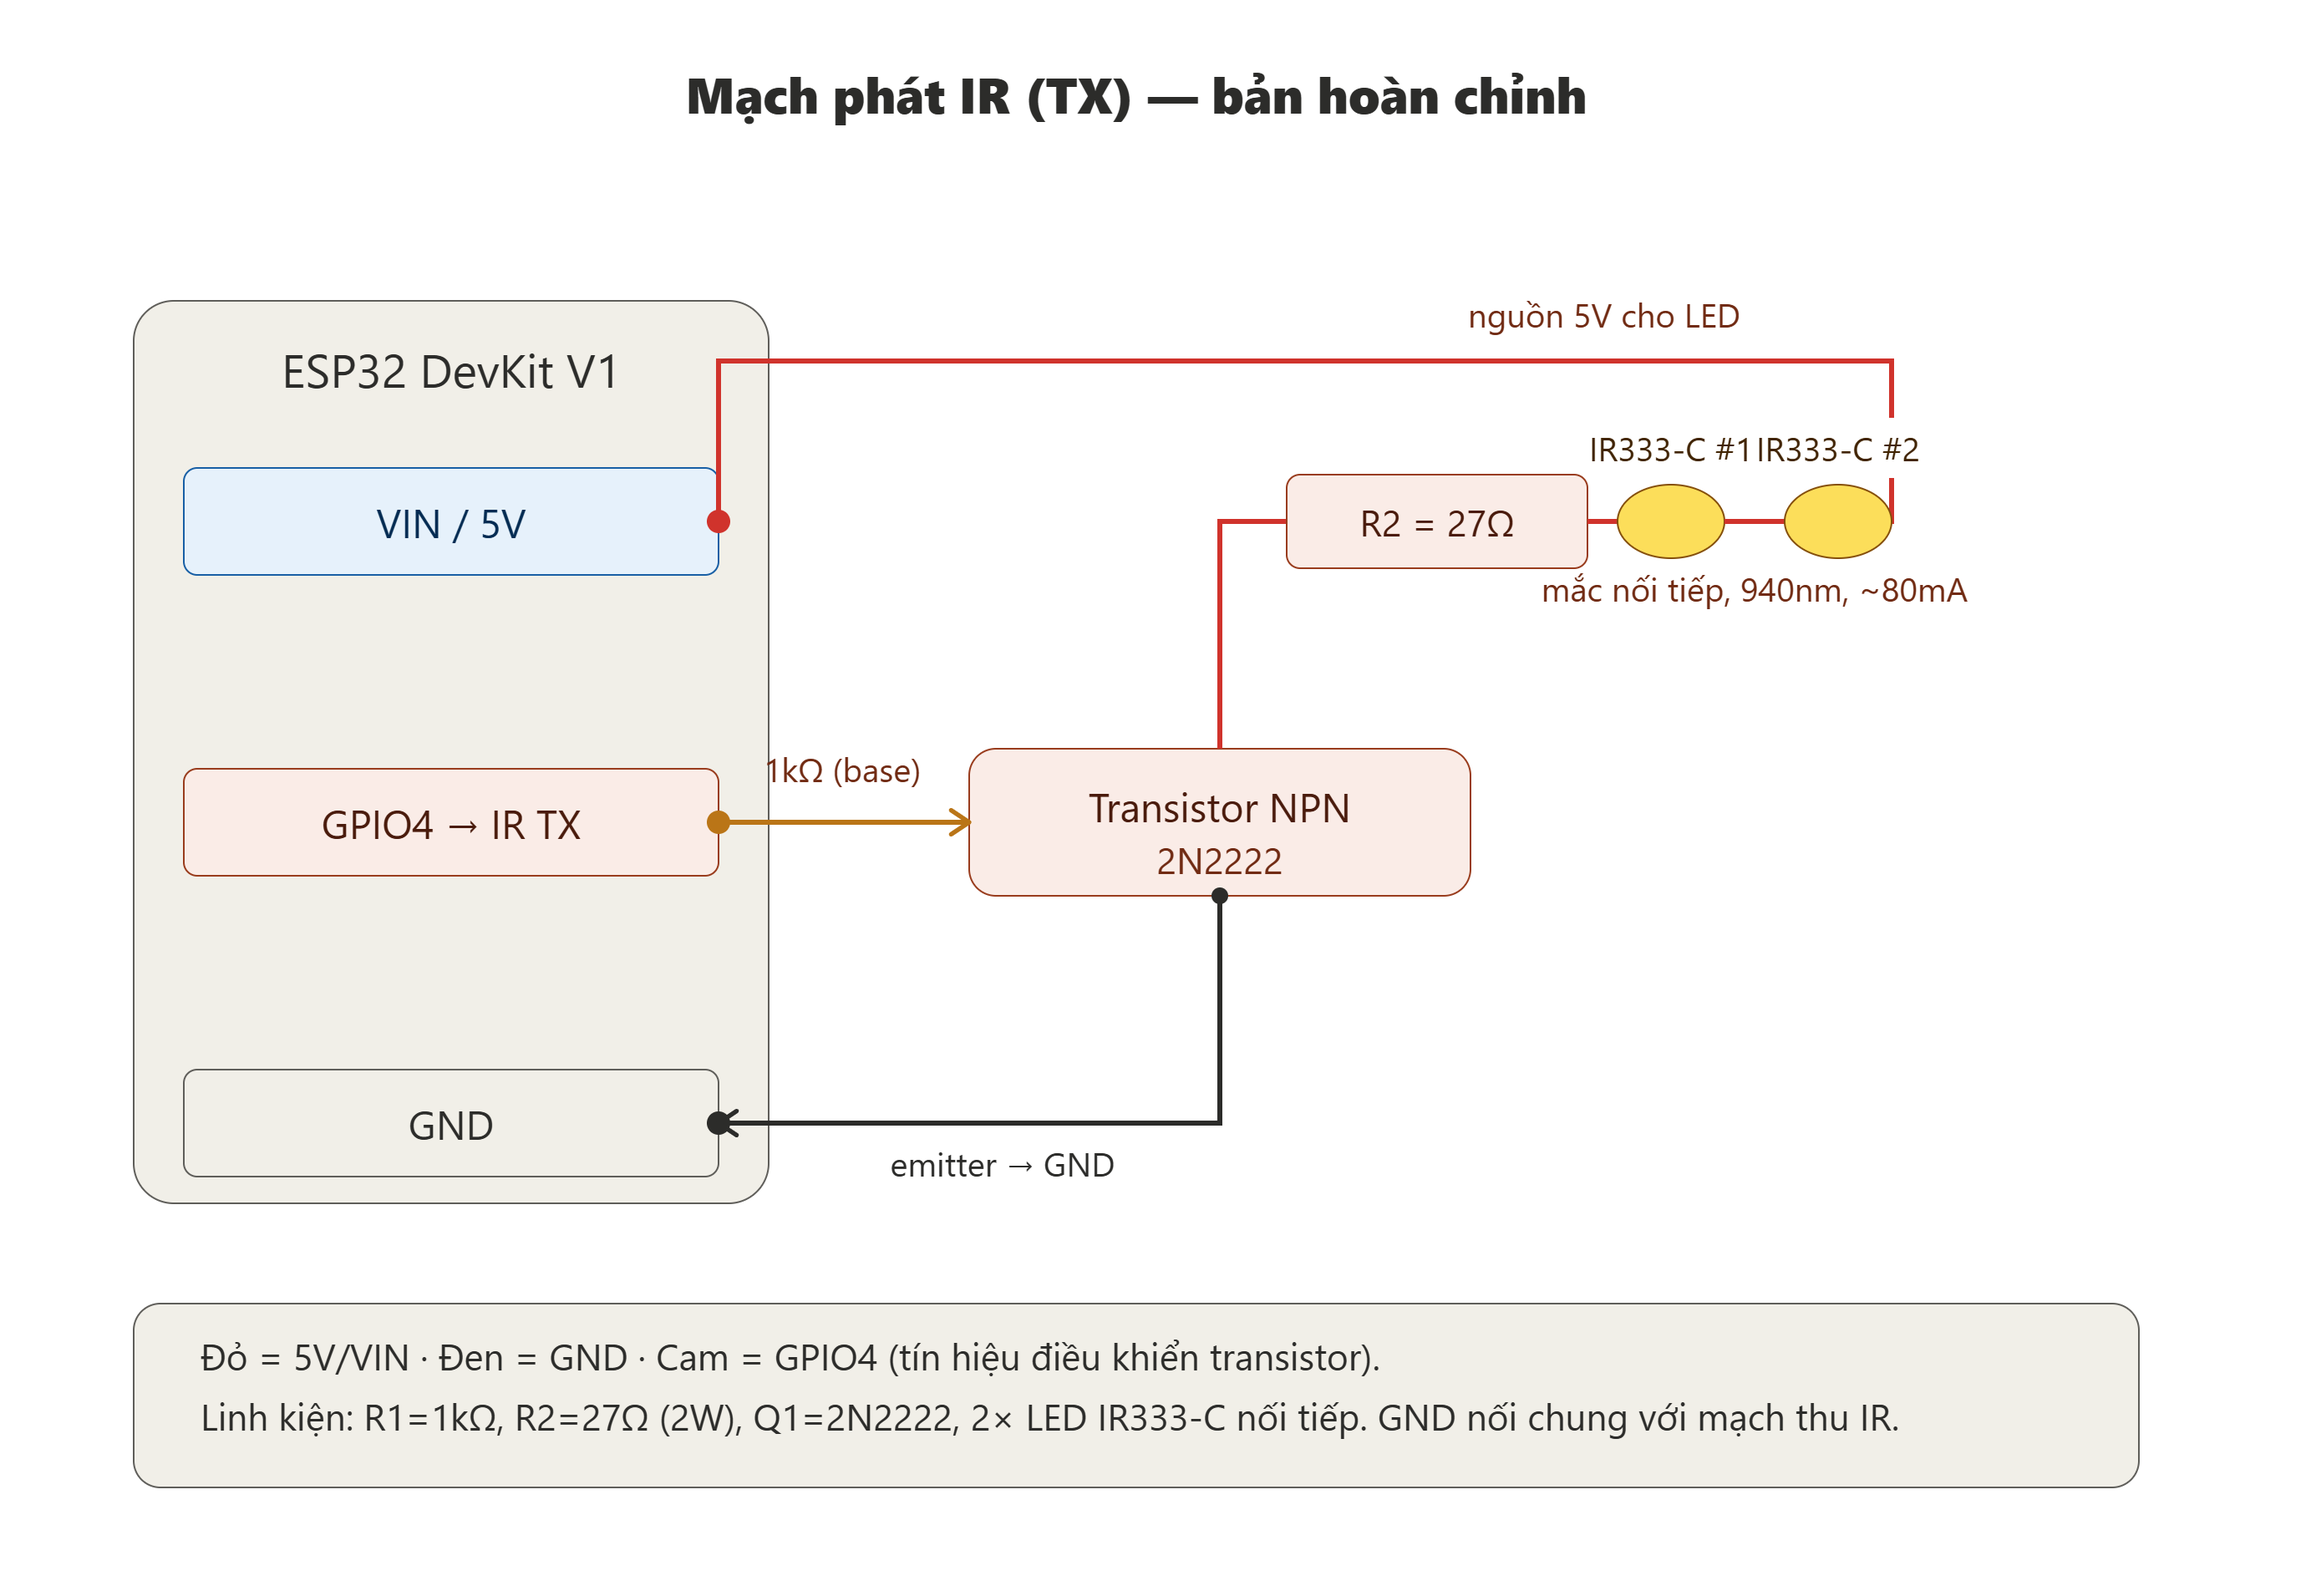
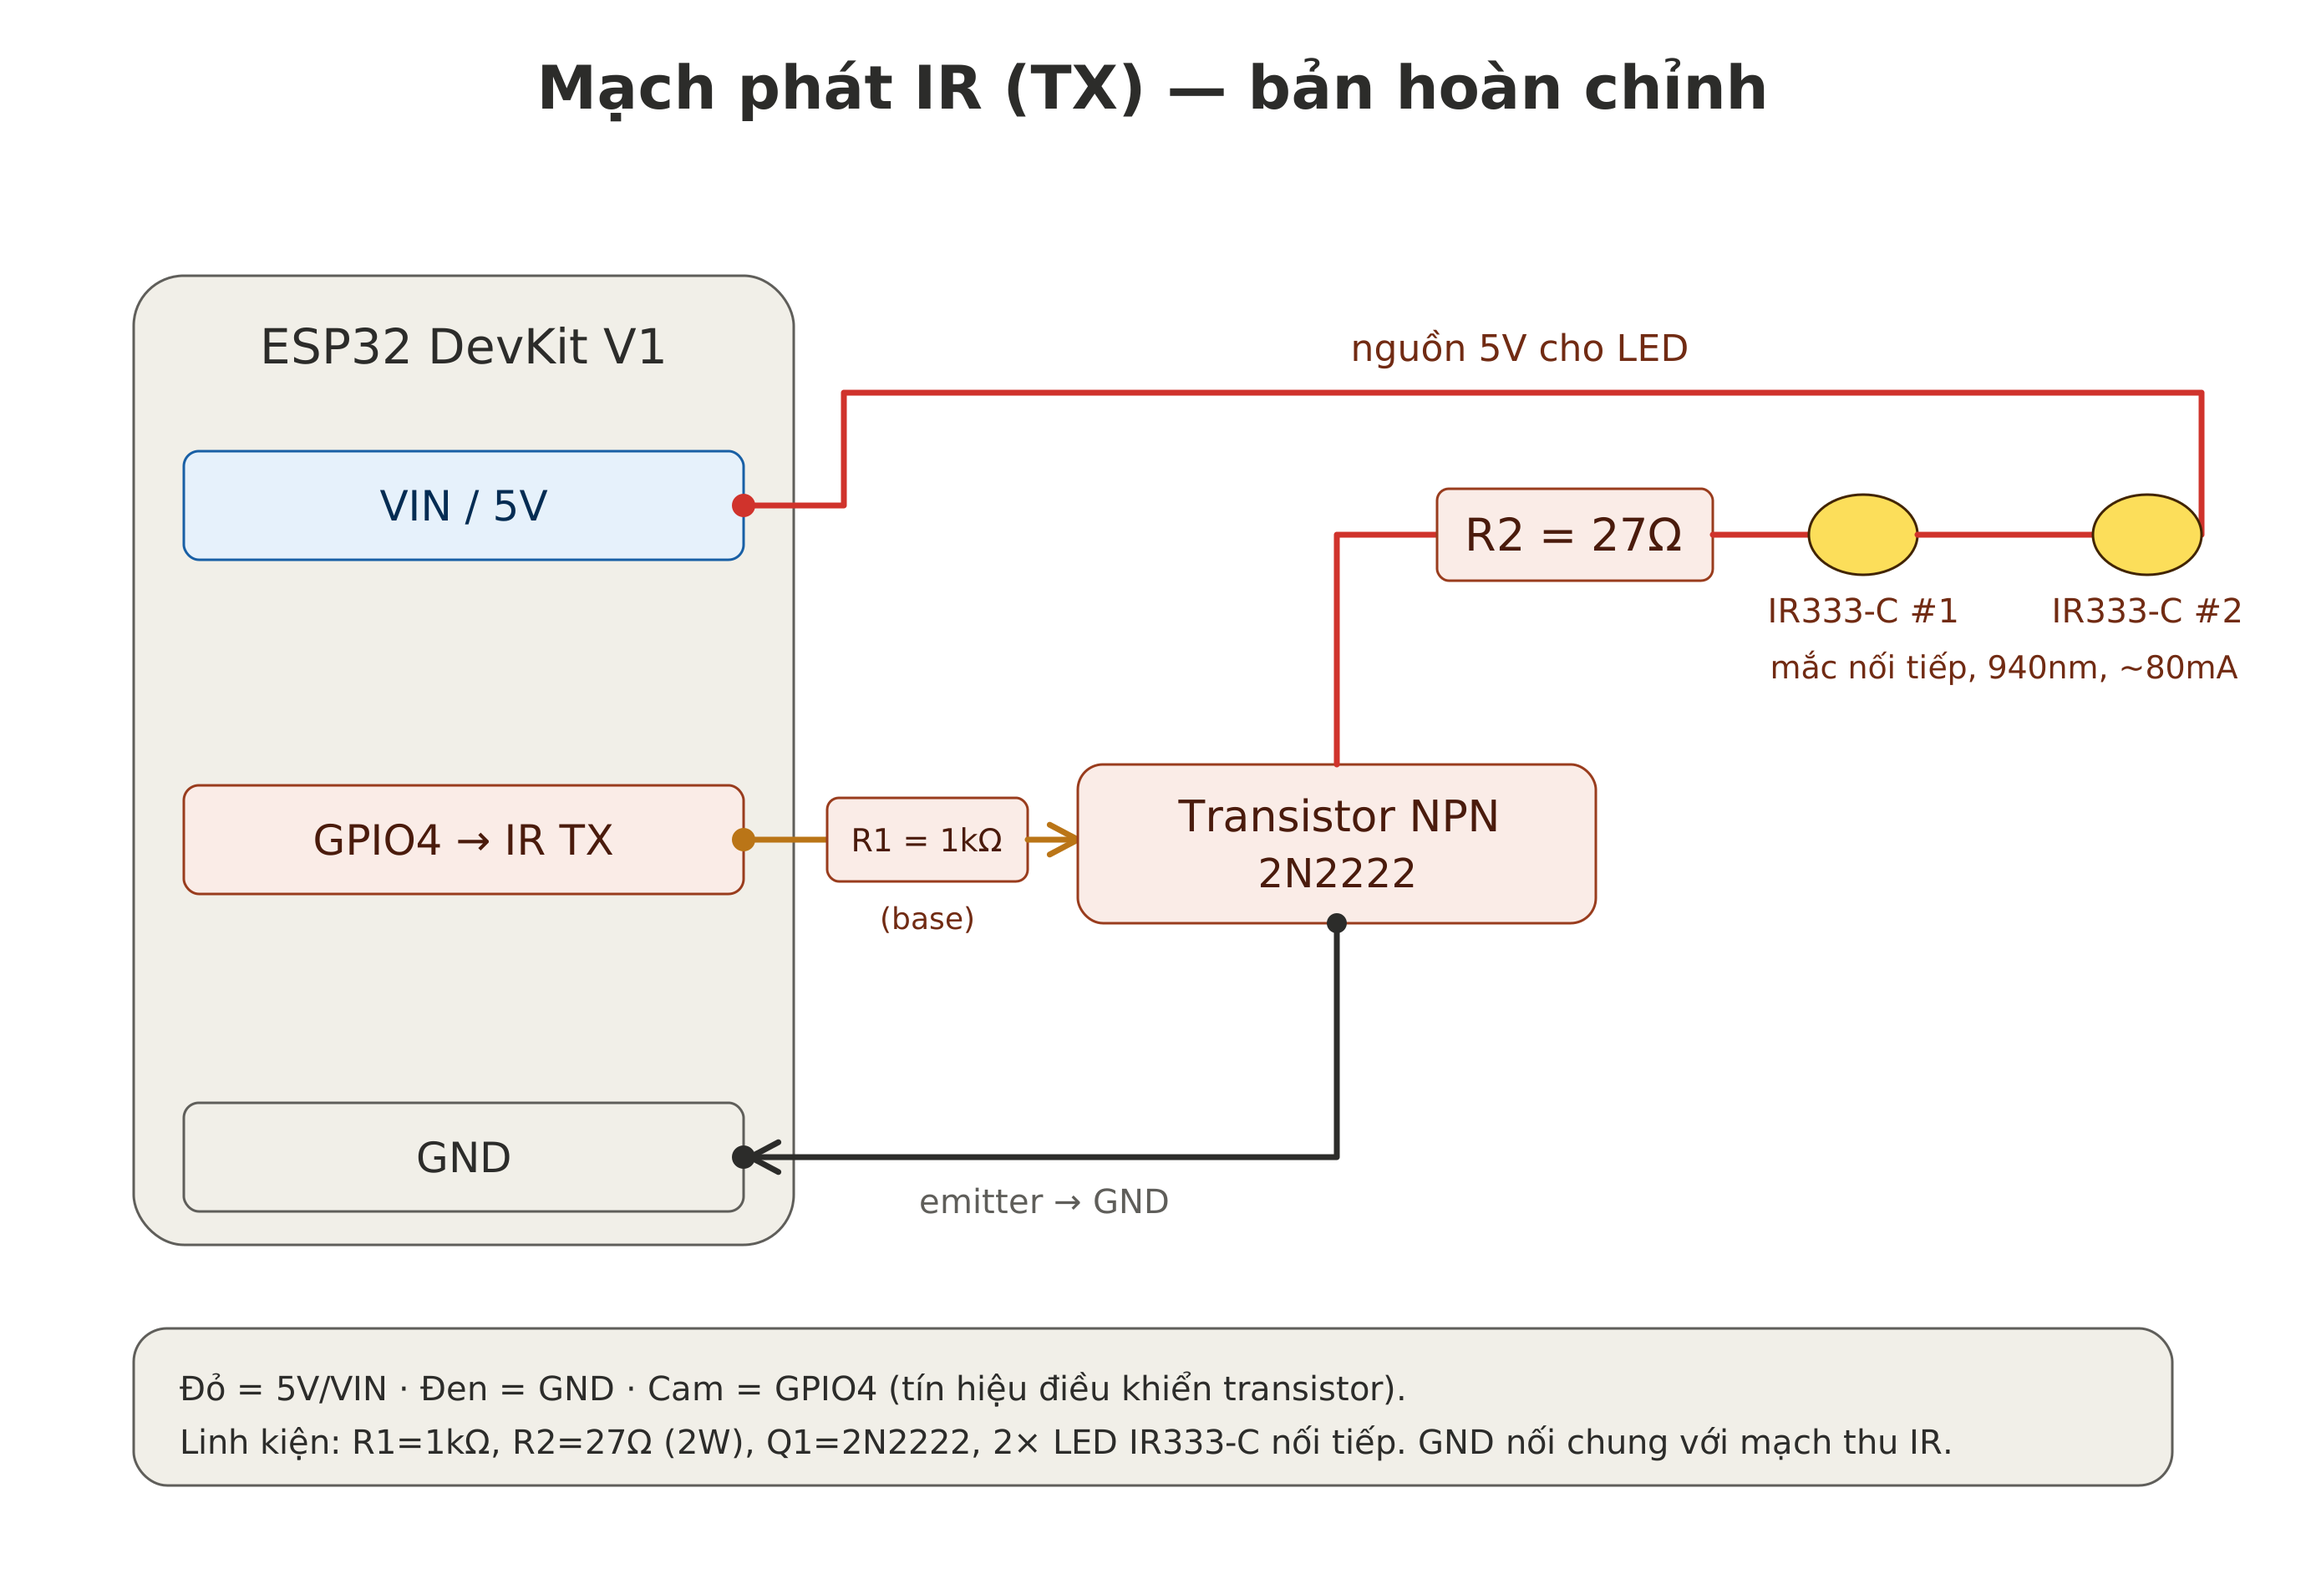
Update documents

diff --git a/CLAUDE.md b/CLAUDE.md
@@ -69,6 +69,8 @@ Mã nguồn: repo `esp32_ir_aircon` nằm trong thư mục dự án. Nếu khôn
 
 ```
 README.md                  hướng dẫn build/nạp/dùng, mô hình hoá remote, hẹn giờ, giả định chưa thu
+so_do_hoan_chinh_mach_phat_ir_tx.png/.svg   sơ đồ mạch phát IR (GPIO4, R1 1kΩ, 2N2222, R2 27Ω, 2 LED IR333-C nối tiếp)
+so_do_hoan_chinh_mach_thu_ir_rx.png/.svg    sơ đồ mạch thu IR (VS1838B, GPIO15), lắp tạm khi dùng capture/
 capture/                   firmware thu tín hiệu IR (IRrecvDumpV2), chân RX GPIO15
 controller/                firmware chính (DevKit V1)
   platformio.ini           platform/lib_deps không ghim phiên bản
@@ -93,17 +95,18 @@ Lệnh:
 
 Quy ước: mỗi ca test mới phải kèm tín hiệu thu hoặc phép thử của người dùng làm bằng chứng (nhãn `[aircon..]`, `[người dùng <ngày>]`, `[suy ra]`, `[thiết kế]`); so độ phủ bằng đột biến (không chỉ đếm số ca). Giả định chưa có tín hiệu thu phải ghi rõ trong README.
 
+Sơ đồ mạch: nguồn là file `.svg`; sửa SVG rồi xuất lại PNG cùng tên, không sửa PNG trực tiếp. Xuất: `pip install cairosvg --break-system-packages`, rồi `cairosvg.svg2png(url=svg, write_to=png, output_width=2760, background_color="white")` (font DejaVu Sans). Sau khi vẽ, xem lại ảnh và kiểm tra chữ không đè hình/dây.
+
 ## 7. Tiến độ
 
 - **Đã xong:**
   - Firmware DevKit V1 (Power, Mode, Fan, Temp, Swing, Sleep, Eco, Hẹn giờ, Light, Turbo, Clean), Web UI, README. Bản v2 (Light/Turbo/Clean, quy luật quạt mới, hẹn BẬT+TẮT cùng lúc) đã build/nạp/thử trên máy thật, mọi thứ ổn (người dùng xác nhận 2026-10-23). IP tĩnh 192.168.6.200 hoạt động tốt (nằm trong dải DHCP của router; ca đã ĐÓNG).
-  - Phiên 2026-11-05 (v3, CODE XONG, CHƯA build/nạp): hẹn giờ theo giờ thực. NTP (`pool.ntp.org`, UTC+7); hẹn "Sau X giờ" lưu `t_start` (NVS) và ESP32 tự theo dõi (không phát IR khi đến hạn); hẹn "Lúc hh:mm" do ESP32 đếm và phát lệnh Bật/Tắt; hai loại loại trừ nhau; hẹn lỡ thì xóa, giữ `power`, cảnh báo trong RAM; chưa có giờ thì từ chối đặt hẹn; nút Nguồn xóa mọi hẹn; Clean xóa hẹn "Sau X giờ" nhưng giữ hẹn "Lúc hh:mm" (Bật bị bỏ qua); API mới `/api/schedule`, `/api/cancel`; state JSON thêm `kind, clock, on_left, off_left, on_due, off_due, missed_on, missed_off`; Web UI: thẻ hẹn giờ gộp (Đặt/Hủy, đổi ô chọn không gửi IR), tự cập nhật 5 giây. File đổi: `ac_controller.h`, `main.cpp`, `config.h`, `web_ui.h`, `README.md`, `CLAUDE.md`, `test/test_controller.cpp`, `test/stub/Preferences.h` (thêm getUInt/putUInt). `coolix_frames.h` không đổi. Bộ test cũ chạy lại 324/324 trước khi thêm ca mới.
-- **Bản chuẩn:** v3 (`esp32_ir_aircon_patch.zip` phiên 2026-11-05) đè lên v2. Chỉ dùng khi người dùng xác nhận đã build/nạp được; nếu có vấn đề, v2 vẫn là bản đã thử trên máy thật.
-- **Trạng thái:** v3 đã upload GitHub (commit `7a9004b`, 2026-11-06), test PC 462/462 chạy lại từ bản clone; chờ người dùng build/nạp v3 và báo log `[NTP]` + 5 phép thử trong README ("Cần thử sau khi nạp v3").
+  - Phiên 2026-11-05 (v3, đã build/nạp/thử trên máy thật 2026-11-10): hẹn giờ theo giờ thực. NTP (`pool.ntp.org`, UTC+7); hẹn "Sau X giờ" lưu `t_start` (NVS) và ESP32 tự theo dõi (không phát IR khi đến hạn); hẹn "Lúc hh:mm" do ESP32 đếm và phát lệnh Bật/Tắt; hai loại loại trừ nhau; hẹn lỡ thì xóa, giữ `power`, cảnh báo trong RAM; chưa có giờ thì từ chối đặt hẹn; nút Nguồn xóa mọi hẹn; Clean xóa hẹn "Sau X giờ" nhưng giữ hẹn "Lúc hh:mm" (Bật bị bỏ qua); API mới `/api/schedule`, `/api/cancel`; state JSON thêm `kind, clock, on_left, off_left, on_due, off_due, missed_on, missed_off`; Web UI: thẻ hẹn giờ gộp (Đặt/Hủy, đổi ô chọn không gửi IR), tự cập nhật 5 giây. File đổi: `ac_controller.h`, `main.cpp`, `config.h`, `web_ui.h`, `README.md`, `CLAUDE.md`, `test/test_controller.cpp`, `test/stub/Preferences.h` (thêm getUInt/putUInt). `coolix_frames.h` không đổi. Bộ test cũ chạy lại 324/324 trước khi thêm ca mới.
+- **Bản chuẩn:** v3 (commit `7a9004b` trên GitHub) đã build/nạp/thử trên máy thật (2026-11-10). v2 là bản cũ đã thử trước đó.
+- **Trạng thái:** v3 đã upload GitHub (commit `7a9004b`, 2026-11-06), test PC 462/462 chạy lại từ bản clone. Người dùng build/nạp được; log `[NTP]` đồng bộ đúng giờ; 5/5 phép thử hẹn giờ đạt (2026-11-10).
 - **Việc tiếp theo:**
-  1. Người dùng build/nạp v3, báo log `[NTP]` (DNS của router có phân giải được `pool.ntp.org` không) và kết quả 5 phép thử trong README.
-  2. (Tuỳ chọn, không quan trọng) kiểm tra lỗi mDNS `.local` qua đêm; đã vào được bằng IP tĩnh.
-  3. Bản C3 SuperMini chỉ khi người dùng có board và yêu cầu.
+  1. (Tuỳ chọn, không quan trọng) kiểm tra lỗi mDNS `.local` qua đêm; đã vào được bằng IP tĩnh.
+  2. Bản C3 SuperMini chỉ khi người dùng có board và yêu cầu.
 - **Quy luật quạt/Sleep/Eco/Turbo/Clean (ĐÃ XÁC NHẬN), mỗi mục có bằng chứng:**
   1. Bật Eco hoặc bật Sleep thì `fan = Auto` (Eco `aircon12/13/14`; Sleep `aircon15/17/18/25`).
   2. Tắt Eco/Sleep: `fan` giữ mức hiện tại (`aircon18/19`).
@@ -116,16 +119,16 @@ Quy ước: mỗi ca test mới phải kèm tín hiệu thu hoặc phép thử c
   9. Clean chạy 20 phút (người dùng đo). Trong Clean: Swing không phản ứng (`aircon26`); Bật nguồn (`B29FC0`) bị bỏ qua, bấm lại (`B27BE0`) máy tắt ngay; Light (`B5F5A5`) máy có phản ứng (`aircon26/27`). ESP32: từ chối mọi lệnh trừ Clean, Tắt nguồn, Light.
   10. (người dùng thử trên máy thật 2026-11-05) Đang hẹn giờ mà đổi nhiệt/quạt/chế độ/Eco/Sleep/Turbo/Swing/Light thì máy GIỮ MỐC CŨ, không đếm lại: `t_start` chỉ đặt lại khi `setTimers()`.
   11. (người dùng thử 2026-11-05) Hẹn Tắt chạy xong: Eco/Sleep/Turbo bị xóa như tắt máy bằng nút Nguồn.
+  12. (người dùng thử trên máy thật 2026-11-10, v3) DNS router phân giải được `pool.ntp.org`, giờ UTC+7 đúng. Hẹn Tắt "Sau X giờ": đếm ngược đúng, máy tắt, trang tự đổi sang "Tắt". Hẹn "Lúc hh:mm": gửi lệnh đúng giờ, máy bật/tắt đúng hẹn (không có phản ứng bíp). Rút điện ESP32 qua giờ hẹn "Lúc hh:mm": trang báo hẹn bị lỡ, giữ nguồn. Rút điện qua giờ hẹn "Sau X giờ": máy tự tắt đúng hẹn, trang hiện "Tắt".
 - **Giả định còn lại (ghi trong README, chưa có tín hiệu thu/phép thử riêng):**
   - Đặt lại hẹn giờ "Sau X giờ" (hoặc thêm một hẹn vào hẹn đang có): máy đếm lại CẢ HAI mốc từ khung mới.
   - Hẹn Bật và Tắt "Sau X giờ" trùng mốc phút: xử lý Bật rồi Tắt (máy tắt).
   - Hẹn Bật "Sau X giờ" chạy xong khi máy đang chạy: không xóa cờ Eco/Sleep/Turbo.
   - Hẹn "Lúc hh:mm" gửi khung như nút Nguồn kể cả khi ESP32 nghĩ máy đã ở đúng trạng thái đó.
-  - DNS router phân giải được tên NTP (chưa thử).
   - Clean 20 phút do ESP32 tự đếm bằng `millis()`: giới hạn của điều khiển một chiều; người dùng đã đo thực tế. Ca ĐÓNG.
 - **Vấn đề còn mở:**
   - Lỗi mDNS `.local` qua đêm: người dùng sẽ kiểm tra sau nếu có thời gian (không quan trọng).
-  - Quan sát (không phải lỗi): `platformio.ini` không ghim phiên bản; Swing và Light là lệnh đảo, Web UI không hiển thị; lệnh đổi trạng thái qua HTTP GET; README nhắc sơ đồ mạch phát IR nhưng zip không có; NVS v2 đang có hẹn giờ sẽ về mặc định ở lần nạp v3 đầu tiên (thiếu `t_start`); cảnh báo "hẹn bị lỡ" chỉ trong RAM; hẹn giờ không tự lặp hằng ngày (chỉ khi người dùng yêu cầu).
+  - Quan sát (không phải lỗi): `platformio.ini` không ghim phiên bản; Swing và Light là lệnh đảo, Web UI không hiển thị; lệnh đổi trạng thái qua HTTP GET; cảnh báo "hẹn bị lỡ" chỉ trong RAM; hẹn giờ không tự lặp hằng ngày (chỉ khi người dùng yêu cầu).
   - Quy trình chuẩn: kiểm tra bằng chứng -> trình bày thiết kế -> người dùng xác nhận -> mới code/xuất file.
 
 ## 8. Quy tắc cập nhật file này
